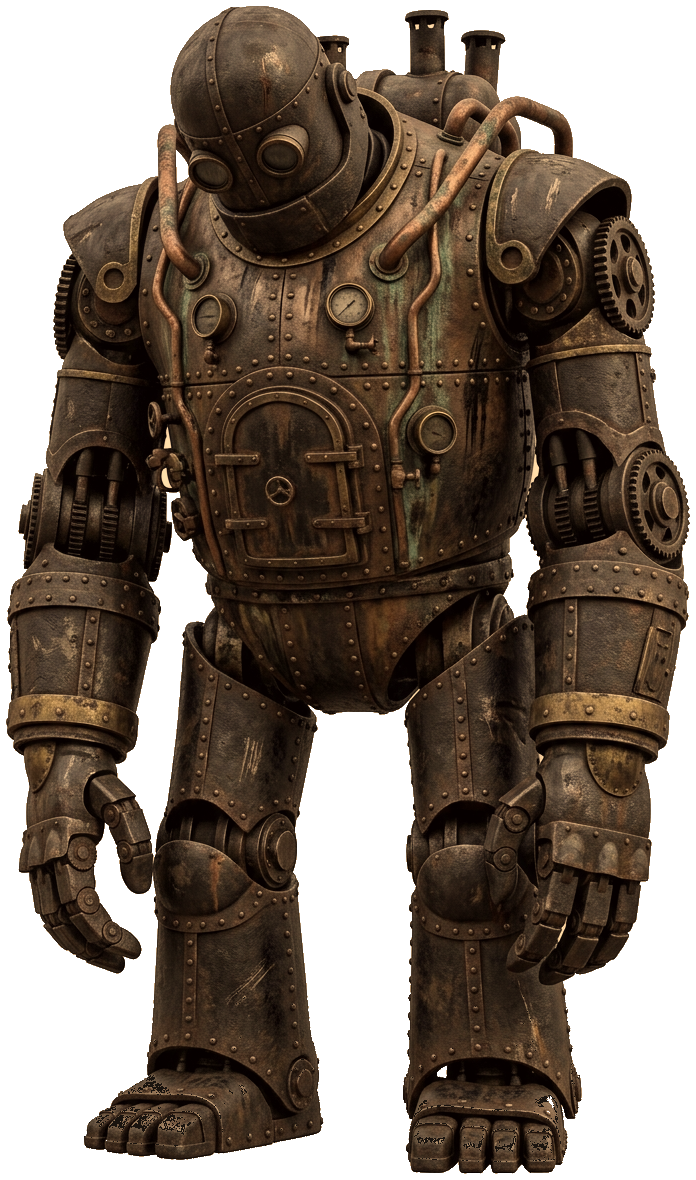
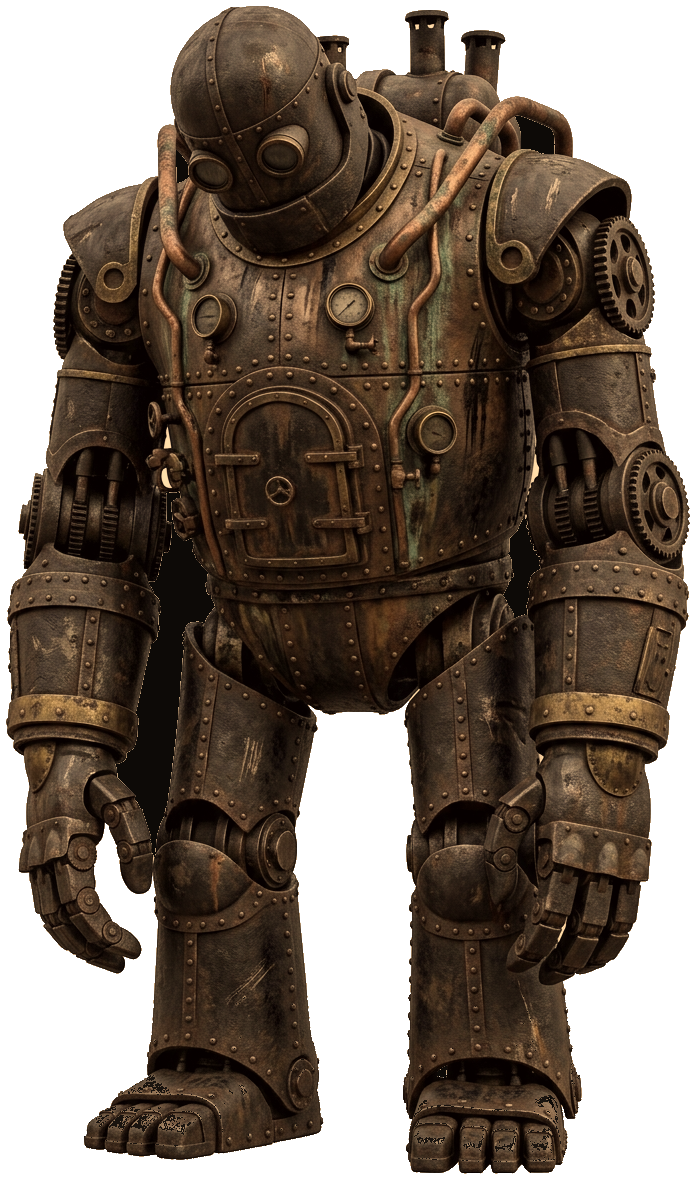
## Golem Awakening + Oil Streams Complete - The right golem now rarely AWAKENS: servos shudder, his head raises with smoky-green glowing eyes and a green haze, he takes one heavy step forward with his right leg, steps back, and powers down — steam bursts mask each pose change (every 3-5.5 min; first
- Next Action Items:
  - **Wake Sound**: Give the awakening a low power-up hum and a heavy metal footstep thud
  - **Collectible Fate**: Make witnessing the golem awakening unlock a 22nd trophy on the Collection page
  - **Home Refactor**: Make Home.jsx maintainable by splitting its 1,478 lines into small focused components and hooks
  - **Seasonal Events**: Turn realms into limited-time takeover events with exclusive collectible rituals players can only earn that week

diff --git a/frontend/src/components/scenes/AmbianceScene.jsx b/frontend/src/components/scenes/AmbianceScene.jsx
@@ -208,7 +208,7 @@ function useCoverAnchor(natW, natH) {
 
 export const AMBIANCE = {
   cyber: { grad: "linear-gradient(180deg,#070A16 0%,#0C1030 46%,#160A28 100%)", skyline: "/cyber-skyline.png", neon: "/cyber-neon-logo.png", cars: "/cyber-car.png", cars2: "/cyber-car2.png", spinner: "/cyber-spinner-suv.png", bus: "/cyber-bus.png", bus2: "/cyber-bus2.png", saucer: "/cyber-saucer-mech.png", saucerFront: "/cyber-saucer-mech-front.png", rain: true, accent: "#22E0E0", sky: "#C77DFF" },
-  steam: { grad: "linear-gradient(180deg,#17100A 0%,#241708 55%,#130C06 100%)", wall: "/steam-wall-full.png", golemLeft: "/steam-golem-left.png", golemRight: "/steam-golem-right.png", device: "/steam-arc-device.png", steam: true, roofCables: true, floor: true, accent: "#D9A44E", sky: "#F1D9A6" },
+  steam: { grad: "linear-gradient(180deg,#17100A 0%,#241708 55%,#130C06 100%)", wall: "/steam-wall-full.png", golemLeft: "/steam-golem-left.png?v=462", golemRight: "/steam-golem-right.png?v=462", device: "/steam-arc-device.png", steam: true, roofCables: true, floor: true, accent: "#D9A44E", sky: "#F1D9A6" },
   tiki:  { grad: "linear-gradient(180deg,#2A140A 0%,#3A1C0E 46%,#180D07 100%)", lounge: "/tiki-lounge-full.png", accent: "#F0A24E", sky: "#FBE3C0" },
   fantasy: { grad: "linear-gradient(180deg,#1A0E08 0%,#120A06 55%,#080503 100%)", hoard: "/fantasy-cave.jpg", accent: "#E6B23A", sky: "#F3D9A0" },
   fairy: { grad: "linear-gradient(180deg,#0B1F14 0%,#123024 50%,#081710 100%)", gully: "/fairy-gully.png", accent: "#5EE0A8", sky: "#CFF5DC" },
@@ -413,7 +413,35 @@ function CyberNeonSign({ neon }) {
 }
 
 
+/** Rare 'awakening' for the right golem: head raises, eyes glow smoky green,
+ * one heavy step forward with the right leg, steps back, powers down.
+ * First 45-85s after load, then every 3-5.5 min (`ff:golem-wake` forces it). */
+function useGolemWake(enabled) {
+  const [ph, setPh] = useState(0); // 0 asleep, 1 awake (head up), 2 step fwd, 3 step back, 4 powering down
+  useEffect(() => {
+    if (!enabled) return undefined;
+    ["/steam-golem-right-awake.png", "/steam-golem-right-step.png"].forEach((s) => { const im = new Image(); im.src = s; });
+    let timers = [];
+    let pending;
+    const schedule = (min, spread) => { pending = setTimeout(run, min + Math.random() * spread); };
+    const run = () => {
+      timers.forEach(clearTimeout); timers = [];
+      setPh(1);                                                  // rumble + head raises, eyes ignite
+      timers.push(setTimeout(() => setPh(2), 2300));             // heavy step forward (right leg)
+      timers.push(setTimeout(() => setPh(3), 4800));             // steps back
+      timers.push(setTimeout(() => setPh(4), 7000));             // head lowers, eyes die out
+      timers.push(setTimeout(() => { setPh(0); schedule(180000, 150000); }, 8600));
+    };
+    schedule(45000, 40000);
+    const force = () => { clearTimeout(pending); run(); };
+    window.addEventListener("ff:golem-wake", force);
+    return () => { clearTimeout(pending); timers.forEach(clearTimeout); window.removeEventListener("ff:golem-wake", force); };
+  }, [enabled]);
+  return ph;
+}
+
 export function AmbianceScene({ theme, cfg, heistEpoch = 0 }) {
+  const golemWake = useGolemWake(!!cfg.golemRight);
   const [mobile, setMobile] = useState(false);
   const [abducting, setAbducting] = useState(false);
   const [chase, setChase] = useState(null); // null | { dir: 1 (L->R) | -1 (R->L) }
@@ -627,7 +655,7 @@ export function AmbianceScene({ theme, cfg, heistEpoch = 0 }) {
       </>)}
       {cfg.gears && <img src={cfg.gears} alt="" className="absolute bottom-[9vh] right-[9%] z-[2] w-[26vw] max-w-[190px] object-contain opacity-55" style={{ animation: "ffSpin 22s linear infinite" }} />}
       {cfg.golemLeft && (
-        <div className="absolute bottom-0 left-[-10%] z-[4] h-[72vh] sm:left-[-3%] sm:h-[78vh]" style={{ aspectRatio: "684 / 1222" }} data-testid="steam-golem-left">
+        <div className="absolute bottom-0 left-[-10%] z-[4] hidden h-[72vh] sm:left-[-3%] sm:block sm:h-[78vh]" style={{ aspectRatio: "684 / 1222" }} data-testid="steam-golem-left">
           {/* soft ground shadow so the sleeping sentinel sits on the floor */}
           <div className="absolute left-1/2 -translate-x-1/2" style={{ bottom: "-0.6vh", width: "88%", height: "3.6vh", background: "radial-gradient(ellipse, rgba(0,0,0,0.7), rgba(0,0,0,0) 68%)" }} />
           <img src={cfg.golemLeft} alt="" className="absolute inset-0 h-full w-full object-contain" style={{ filter: "drop-shadow(0 6px 10px rgba(0,0,0,0.55)) brightness(0.92)" }} />
@@ -660,13 +688,31 @@ export function AmbianceScene({ theme, cfg, heistEpoch = 0 }) {
         </div>
       )}
       {cfg.golemRight && (
-        <div className="absolute bottom-0 right-[-3%] z-[3] hidden h-[78vh] sm:block" style={{ aspectRatio: "696 / 1180" }} data-testid="steam-golem-right">
+        <div className="absolute bottom-0 right-[-5%] z-[3] block h-[72vh] sm:right-[-1%] sm:h-[78vh]" style={{ aspectRatio: "696 / 1180" }} data-testid="steam-golem-right">
           <div className="absolute left-1/2 -translate-x-1/2" style={{ bottom: "-0.6vh", width: "88%", height: "3.6vh", background: "radial-gradient(ellipse, rgba(0,0,0,0.7), rgba(0,0,0,0) 68%)" }} />
-          <img src={cfg.golemRight} alt="" className="absolute inset-0 h-full w-full object-contain" style={{ filter: "drop-shadow(0 6px 10px rgba(0,0,0,0.55)) brightness(0.92)" }} />
-          {/* white steam wisps venting from his three back stacks */}
+          {/* pose stack: sleeping / awake (head up, green eyes) / mid-step */}
+          <div className="absolute inset-0" style={{ transform: golemWake === 2 ? "translateX(-3.5%) translateY(-0.4%)" : "none", transition: "transform 1.15s cubic-bezier(0.45,0,0.55,1)", animation: golemWake === 1 ? "ffGolemRumble 0.4s linear 3" : golemWake === 2 ? "ffGolemRumble 0.5s linear 2" : undefined }}>
+            <img src={cfg.golemRight} alt="" className="absolute inset-0 h-full w-full object-contain" style={{ opacity: golemWake === 0 || golemWake === 4 ? 1 : 0, transition: "opacity 0.7s ease", filter: "drop-shadow(0 6px 10px rgba(0,0,0,0.55)) brightness(0.92)" }} />
+            <img src="/steam-golem-right-awake.png" alt="" className="absolute inset-0 h-full w-full object-contain" style={{ opacity: golemWake === 1 || golemWake === 3 ? 1 : 0, transition: "opacity 0.7s ease", filter: "drop-shadow(0 6px 10px rgba(0,0,0,0.55)) brightness(0.92)" }} data-testid="golem-wake-awake" />
+            <img src="/steam-golem-right-step.png" alt="" className="absolute inset-0 h-full w-full object-contain" style={{ opacity: golemWake === 2 ? 1 : 0, transition: "opacity 0.7s ease", filter: "drop-shadow(0 6px 10px rgba(0,0,0,0.55)) brightness(0.92)" }} data-testid="golem-wake-step" />
+            {/* smoky green aura around the head while he's awake */}
+            {golemWake >= 1 && golemWake <= 3 && (
+              <div className="absolute" style={{ left: "22%", top: "1%", width: "26%", aspectRatio: "1" }} data-testid="golem-wake-aura">
+                <span className="absolute inset-0 rounded-full" style={{ background: "radial-gradient(circle, rgba(110,255,170,0.3), rgba(70,220,140,0.12) 50%, transparent 76%)", mixBlendMode: "screen", filter: "blur(4px)", animation: "ffFurnaceSmolder 2.4s ease-in-out infinite" }} />
+              </div>
+            )}
+            {/* steam bursts vent at every pose change to mask the swap */}
+            {golemWake >= 1 && (
+              <div key={`burst-${golemWake}`} className="absolute" style={{ left: "40%", top: "14%" }} data-testid="golem-wake-burst">
+                {[0, 1, 2].map((i) => (
+                  <span key={`b-${i}`} className="absolute rounded-full" style={{ left: `${(i - 1) * 26}px`, width: `${5 + i}vh`, height: `${5 + i}vh`, background: "radial-gradient(circle, rgba(250,248,240,0.8), rgba(230,227,218,0.4) 52%, transparent 76%)", filter: "blur(2px)", animation: `ffGolemSmoke ${1.3 + i * 0.25}s ease-out forwards` }} />
+                ))}
+              </div>
+            )}
+          </div>
           {[
-            { left: "35%", top: "0.5%", scale: 0.9 },
-            { left: "60%", top: "0.5%", scale: 1 },
+            { left: "52%", top: "2%", scale: 0.9 },
+            { left: "61%", top: "0.5%", scale: 1 },
             { left: "68.5%", top: "2.5%", scale: 0.75 },
           ].map((s, si) => (
             <div key={`vent-${si}`} className="absolute" style={{ left: s.left, top: s.top }} data-testid="golem-stack-steam">
@@ -677,8 +723,47 @@ export function AmbianceScene({ theme, cfg, heistEpoch = 0 }) {
           ))}
         </div>
       )}
+      {/* oil leak layer: mirrors the right golem's box but sits ABOVE the arc
+          device (z-4) so the streams + puddle are never hidden behind the table */}
+      {cfg.golemRight && (
+        <div className="absolute bottom-0 right-[-5%] z-[4] block h-[72vh] sm:right-[-1%] sm:h-[78vh]" style={{ aspectRatio: "696 / 1180" }} data-testid="steam-golem-right-oil">
+          {/* oil leak: two glossy runs smeared across the cuff and hand... */}
+          <div className="absolute" style={{ left: "82.2%", top: "60.5%", width: "5.4%", height: "16.5%" }} data-testid="golem-oil-streak">
+            <div className="absolute" style={{ left: "6%", top: "0", width: "42%", height: "100%", borderRadius: "45%", background: "linear-gradient(180deg, rgba(18,14,10,0) 0%, rgba(22,17,11,0.5) 16%, rgba(14,11,7,0.72) 55%, rgba(8,6,4,0.85) 100%)", filter: "blur(0.6px)" }} />
+            <div className="absolute" style={{ left: "58%", top: "6%", width: "36%", height: "88%", borderRadius: "45%", background: "linear-gradient(180deg, rgba(18,14,10,0) 0%, rgba(20,16,10,0.45) 22%, rgba(12,9,6,0.7) 60%, rgba(8,6,4,0.8) 100%)", filter: "blur(0.7px)" }} />
+            <div className="absolute" style={{ left: "16%", top: "10%", width: "13%", height: "78%", borderRadius: "45%", background: "linear-gradient(180deg, rgba(150,138,105,0.4), rgba(70,62,45,0.12))", filter: "blur(1px)", animation: "ffOilGlisten 3.2s ease-in-out infinite" }} />
+            <div className="absolute" style={{ left: "66%", top: "16%", width: "11%", height: "70%", borderRadius: "45%", background: "linear-gradient(180deg, rgba(150,138,105,0.35), rgba(70,62,45,0.1))", filter: "blur(1px)", animation: "ffOilGlisten 4.1s ease-in-out -1.4s infinite" }} />
+          </div>
+          {/* ...viscous streams fanned across the hand, each on its own rhythm... */}
+          {[
+            { left: "80%", top: "68%", h: "28.2%", w: "2%", dur: 4.6, delay: 1.6 },
+            { left: "84.2%", top: "76.8%", h: "19.6%", w: "2.3%", dur: 3.6, delay: 0 },
+            { left: "88.3%", top: "65%", h: "31.2%", w: "2%", dur: 5.2, delay: 3.1 },
+          ].map((L, li) => (
+            <div key={`oil-lane-${li}`} className="absolute" style={{ left: L.left, top: L.top, width: L.w, height: L.h }} data-testid="golem-oil-lane">
+              <span className="absolute" style={{ left: "16%", width: "62%", borderRadius: "46% / 10%", background: "linear-gradient(90deg, rgba(12,9,6,0.96) 0%, rgba(150,138,105,0.55) 34%, rgba(60,50,34,0.9) 55%, rgba(6,5,3,0.98) 100%)", boxShadow: "0 0 3px rgba(0,0,0,0.85)", filter: "blur(0.3px)", animation: `ffOilStream ${L.dur}s cubic-bezier(0.45,0,0.75,0.55) ${L.delay}s infinite` }} data-testid="golem-oil-drip" />
+            </div>
+          ))}
+          {/* ...into a slick puddle that RIPPLES where each stream lands */}
+          <div className="absolute" style={{ left: "77%", top: "95.9%", width: "14.5%", height: "1.9%" }} data-testid="golem-oil-puddle">
+            <div className="absolute inset-0 rounded-full" style={{ background: "radial-gradient(ellipse at 50% 50%, rgba(10,8,5,0.95) 0%, rgba(14,11,7,0.85) 55%, rgba(16,12,8,0) 80%)", animation: "ffOilGlisten 4.4s ease-in-out infinite, ffPuddleWobble 3.6s ease-in-out infinite" }} />
+            <div className="absolute rounded-full" style={{ left: "30%", top: "22%", width: "34%", height: "34%", background: "radial-gradient(ellipse, rgba(170,158,120,0.4), rgba(90,80,58,0) 70%)", filter: "blur(1px)", animation: "ffOilGlisten 3.6s ease-in-out -1.2s infinite" }} />
+            {/* ripple rings under each stream, timed to that stream's landing */}
+            {[
+              { x: "28%", dur: 4.6, delay: 1.6 },
+              { x: "57%", dur: 3.6, delay: 0 },
+              { x: "85%", dur: 5.2, delay: 3.1 },
+            ].map((R, ri) => (
+              <React.Fragment key={`ring-${ri}`}>
+                <span className="absolute rounded-full border" data-testid="golem-oil-ripple" style={{ left: R.x, top: "8%", width: "30%", height: "74%", borderColor: "rgba(150,138,105,0.55)", animation: `ffOilRing ${R.dur}s linear ${R.delay}s infinite` }} />
+                <span className="absolute rounded-full border" style={{ left: R.x, top: "20%", width: "20%", height: "52%", borderColor: "rgba(170,158,120,0.4)", animation: `ffOilRing ${R.dur}s linear ${R.delay + 0.25}s infinite` }} />
+              </React.Fragment>
+            ))}
+          </div>
+        </div>
+      )}
       {cfg.device && (
-        <div className="absolute bottom-0 right-[-5%] z-[3] h-[40vh] sm:right-[3%] sm:h-[46vh]" style={{ aspectRatio: "545 / 970", transform: "scaleX(-1)" }}>
+        <div className="absolute bottom-0 left-[2%] z-[3] h-[40vh] sm:left-auto sm:right-[3%] sm:h-[46vh]" style={{ aspectRatio: "545 / 970", transform: "scaleX(-1)" }}>
           <img src={cfg.device} alt="" className="absolute inset-0 h-full w-full object-contain opacity-90" />
           <div className="absolute" style={{ left: "43.5%", width: "12.5%", top: "2%", height: "22%" }}>
             <div className="absolute inset-0 rounded-full" style={{ background: "radial-gradient(ellipse at 50% 50%, rgba(120,210,255,0.22), rgba(120,210,255,0) 70%)", animation: "ffArcGlow 0.13s steps(2,end) infinite" }} />

diff --git a/frontend/src/index.css b/frontend/src/index.css
@@ -471,6 +471,47 @@ body {
   100%  { transform: translateX(calc(-24vw - 340px)) translateY(4px) scaleX(1); }
 }
 
+/* Oily streams on the right golem: a viscous strand stretches down from the
+   source (height grows, anchored top), sags, detaches and falls into the
+   puddle. top/height animate in % of each lane so all lanes stay in sync. */
+@keyframes ffOilStream{
+  0%   { top: 0;   height: 5%;  opacity: 0; }
+  8%   { opacity: .95; }
+  36%  { top: 0;   height: 52%; opacity: .95; }
+  54%  { top: 26%; height: 62%; opacity: .95; }
+  78%  { top: 90%; height: 26%; opacity: .95; }
+  88%  { top: 97%; height: 6%;  opacity: .85; }
+  100% { top: 97%; height: 5%;  opacity: 0; }
+}
+/* wet-shine breathing on the streak + puddle highlight */
+@keyframes ffOilGlisten{
+  0%,100% { opacity: .55; }
+  50%     { opacity: 1; }
+}
+/* splash ripple on the puddle, timed to each stream's landing (78-96%) */
+@keyframes ffOilRing{
+  0%,72% { opacity: 0;  transform: translateX(-50%) scale(.25); }
+  78%    { opacity: .65; }
+  96%    { opacity: 0;  transform: translateX(-50%) scale(1.9); }
+  100%   { opacity: 0;  transform: translateX(-50%) scale(1.9); }
+}
+/* the puddle surface shivers as streams land */
+@keyframes ffPuddleWobble{
+  0%,100% { transform: scale(1,1); }
+  76%     { transform: scale(1,1); }
+  82%     { transform: scale(1.05,1.18); }
+  90%     { transform: scale(0.98,0.94); }
+}
+
+/* heavy servos straining: tiny positional shudder while the golem wakes */
+@keyframes ffGolemRumble{
+  0%,100% { margin-left: 0; }
+  20% { margin-left: -3px; }
+  45% { margin-left: 2px; }
+  70% { margin-left: -2px; }
+  85% { margin-left: 1px; }
+}
+
 /* Smoldering furnace behind the golem's belly grate: irregular ember breathing */
 @keyframes ffFurnaceSmolder{
   0%   { opacity: .5;  transform: scale(1); }

diff --git a/frontend/public/index.html b/frontend/public/index.html
@@ -60,7 +60,7 @@
         <title>Fork·Fate — Restaurant Roulette</title>
         <script>window.addEventListener("error",function(e){if(e.error instanceof DOMException&&e.error.name==="DataCloneError"&&e.message&&e.message.includes("PerformanceServerTiming")){e.stopImmediatePropagation();e.preventDefault()}},true);</script>
         <script>(function(){try{if('serviceWorker' in navigator){window.addEventListener('load',function(){navigator.serviceWorker.register('/service-worker.js',{scope:'/'}).catch(function(){});});}}catch(e){}})();</script>
-        <script>(function(){try{var FF_BUILD="2026.06-460";var prev=localStorage.getItem("ff_build");if(prev!==FF_BUILD){localStorage.setItem("ff_build",FF_BUILD);if(window.caches&&caches.keys){caches.keys().then(function(keys){keys.forEach(function(k){caches.delete(k);});});}if(prev&&!sessionStorage.getItem("ff_build_reloaded")){sessionStorage.setItem("ff_build_reloaded","1");location.reload(true);}}}catch(e){}})();</script>
+        <script>(function(){try{var FF_BUILD="2026.06-469";var prev=localStorage.getItem("ff_build");if(prev!==FF_BUILD){localStorage.setItem("ff_build",FF_BUILD);if(window.caches&&caches.keys){caches.keys().then(function(keys){keys.forEach(function(k){caches.delete(k);});});}if(prev&&!sessionStorage.getItem("ff_build_reloaded")){sessionStorage.setItem("ff_build_reloaded","1");location.reload(true);}}}catch(e){}})();</script>
         <script src="https://assets.emergent.sh/scripts/emergent-main.js"></script>
         <!-- Google Analytics 4 -->
         <script async src="https://www.googletagmanager.com/gtag/js?id=G-4E739B8J0H"></script>

diff --git a/scripts/gen_golem_wake.py b/scripts/gen_golem_wake.py
@@ -1,0 +1,61 @@
+"""Generate two pose variants of the right steampunk golem (Boiler colossus)
+for the rare 'awakening' ambient event: (A) head raised, eyes glowing smoky
+green; (B) same but taking a step forward with his right leg.
+Edits reference the existing in-game sprite so the design stays identical."""
+import asyncio
+import base64
+import os
+import sys
+
+from dotenv import load_dotenv
+
+load_dotenv("/app/backend/.env")
+from emergentintegrations.llm.chat import LlmChat, UserMessage, ImageContent
+
+with open("/app/frontend/public/steam-golem-right.png", "rb") as f:
+    REF = base64.b64encode(f.read()).decode("utf-8")
+
+COMMON = (
+    "Keep EVERYTHING else about this exact robot identical: same design, same bronze/brass "
+    "weathered materials, same proportions, same three chimney stacks on the back, same lighting, "
+    "same camera angle, same scale and position in the frame, feet in the same floor position. "
+    "Isolated on a plain solid white background, full body visible, nothing cropped, no text."
+)
+
+POSES = {
+    "awake": (
+        "Edit this sleeping steampunk automaton golem so it has WOKEN UP: raise its head to look "
+        "straight ahead (chin up, no longer slumped), and make its two eye lenses glow an eerie "
+        "smoky green with a soft green haze around them. " + COMMON
+    ),
+    "step": (
+        "Edit this steampunk automaton golem: head raised looking straight ahead, eye lenses glowing "
+        "eerie smoky green, and it is TAKING A STEP FORWARD with its RIGHT leg — right leg lifted and "
+        "planted slightly forward, body weight shifted, left leg back. " + COMMON
+    ),
+}
+
+
+async def gen(name: str, prompt: str) -> None:
+    chat = LlmChat(api_key=os.getenv("EMERGENT_LLM_KEY"), session_id=f"golem-wake-{name}", system_message="You are an expert sprite artist.")
+    chat.with_model("gemini", "gemini-3.1-flash-image-preview").with_params(modalities=["image", "text"])
+    msg = UserMessage(text=prompt, file_contents=[ImageContent(REF)])
+    text, images = await chat.send_message_multimodal_response(msg)
+    if not images:
+        print(f"{name}: NO IMAGE ({(text or '')[:100]})")
+        return
+    out = f"/app/scripts/golem_wake_{name}_raw.png"
+    with open(out, "wb") as f:
+        f.write(base64.b64decode(images[0]["data"]))
+    print(f"{name}: saved {out}")
+
+
+async def main() -> None:
+    for k, p in POSES.items():
+        try:
+            await gen(k, p)
+        except Exception as e:  # noqa: BLE001
+            print(f"{k}: FAILED {e}")
+
+
+asyncio.run(main())

diff --git a/memory/CHANGELOG.md b/memory/CHANGELOG.md
@@ -680,3 +680,39 @@ ROADMAP idea (user): future categories beyond food/drinks/bars/desserts -> antiq
   golems (mobile stays 72vh, left only). Stacks + plumes now clear the header.
 - Verified via zoomed desktop screenshots (eyes aligned + glowing, furnace grate
   lit, right golem full view with stacks).
+
+## 2026-06 — Right golem: oil leak, armpit bleed fix, mobile visibility (FF_BUILD 461-463)
+- WHITE BLEED ROOT CAUSE: sprites were fully clean (0 pale px) — the "white bits"
+  between arms/bodies were ambient steam puffs BEHIND the golems showing through
+  the transparent armpit cutouts, plus stale HTTP-cached sprites. Fixes:
+  (1) sprite URLs now versioned (?v=462) since FF_BUILD cache-bust doesn't clear
+  HTTP image cache; (2) enclosed transparent holes filled with opaque shadow
+  (13,10,7) via border-flood inversion — 8.5k px left, 14.7k px right.
+- OIL LEAK (right golem, his left arm = sprite right): dark glossy streak from
+  cuff (84%, 60.5%) down the hand; droplet lane (84.6%, 76.8%, h 19.6%) with bead
+  that swells, free-falls (top 0->96% of lane), lands; glistening puddle at
+  (79.5%, 95.9%) with splash ring synced to landing. Keyframes ffOilDrip/
+  ffOilGlisten/ffOilRing (3.6s cycle). testids golem-oil-streak/-lane/-drip/-puddle.
+- RIGHT GOLEM NOW ON MOBILE (user couldn't verify him): 72vh right-[-5%]
+  (same size as left per user), desktop unchanged 78vh right-[-3%].
+- STEAM FIX: left vent anchor (35%,0.5%) sat on the head — moved to the real
+  bottle stack (52%, 2%). Verified via mobile zoom screenshot.
+
+## 2026-06 — Right golem awakening + oil streams + mobile recomposition (FF_BUILD 464-469)
+- OIL: drips became viscous STREAMS (ffOilStream: strand stretches from source,
+  sags, detaches, falls; 3 lanes fanned at 80/84.2/88.3%), wider 2-run oily stain
+  on the hand, puddle widened (77%, 14.5%) with RIPPLE rings per stream landing
+  (ffOilRing retimed 72-96%, ffPuddleWobble surface shiver). Oil lives in its own
+  z-[4] layer (steam-golem-right-oil) mirroring the golem box so the arc table
+  never hides it; golem desktop right-[-1%] so his left hand is on-screen.
+- MOBILE: too cluttered with both -> LEFT golem hidden on mobile (sm:block), RIGHT
+  golem is the mobile one (72vh right-[-5%]); arc device table moved to left[2%]
+  on mobile (sm:left-auto sm:right-[3%]). Verified clean composition.
+- AWAKENING (rare ambient, ff:golem-wake forces): useGolemWake hook, phases
+  0 asleep/1 awake/2 step fwd/3 back/4 power down (2.3/4.8/7.0/8.6s), first 45-85s
+  then every 3-5.5min. Pose sprites generated via Nano Banana image-edit from the
+  base sprite (gen_golem_wake.py): steam-golem-right-awake.png (head up, smoky
+  green eyes) + -step.png (right leg forward), keyed/normalized to 696x1180
+  bottom-anchored, white collar patches shadow-filled. Crossfade stack + container
+  translateX(-3.5%) step + ffGolemRumble shudder + green head aura + steam bursts
+  masking each pose swap. Verified all 4 beats via forced-event screenshots.

diff --git a/memory/PRD.md b/memory/PRD.md
@@ -2848,3 +2848,17 @@ inside playHeistSound).
 - White steam on right golem's 3 stacks; left golem ember eyes glowing like his
   furnace; pale feet pixels painted sooty black; desktop golems final at 78vh so
   stacks/plumes clear the header. All verified via zoom screenshots.
+
+## 2026-08-14 part 106: Right golem oil leak + bleed fix + mobile parity (FF_BUILD 463)
+- Oil drips from his left cuff down the hand to a glistening floor puddle with
+  splash ring (3.6s cycle). Armpit "white bleed" was ambient steam behind the
+  transparent cutouts + stale HTTP image cache: holes filled with opaque shadow,
+  sprite URLs versioned (?v=462). Right golem now shows on MOBILE at 72vh (same
+  as left, per user), steam vent that sat on his head re-anchored to the real
+  stack (52%, 2%). All verified via zoom screenshots.
+
+## 2026-08-14 part 107: Golem awakening + oil streams final (FF_BUILD 469)
+- Right golem rare awakening (head up, smoky green eyes, one step fwd/back, power
+  down) via AI-generated pose sprites; oil now 3 fanned viscous streams with wide
+  hand stain and rippling puddle in a z-4 layer; mobile shows ONLY the right golem
+  with the arc table moved left. All verified via forced-event screenshots.
